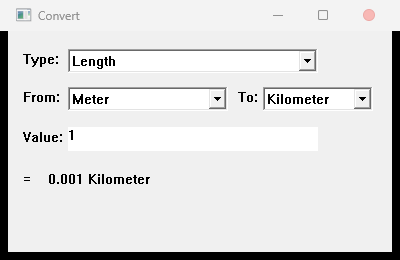
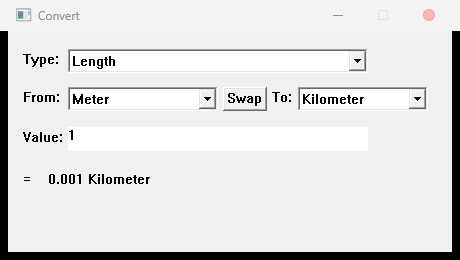
v0.2.1: fix critical bugs found in code review
CRITICAL: bound the expression parser recursion depth (core/math.rs) -- deeply nested input (thousands of parens/unary signs/nested calls) previously overflowed the stack and aborted the whole process; it now returns Err. MAJOR: add the missing swap button to the win32 front-end so it matches the others. Also: fmt_num no longer shows '0' for tiny non-zero values, win32 window is fixed-size (controls can no longer be clipped), no unwrap across the FFI boundary, saturating_sub everywhere, fltk label clipping fixed, Unicode whitespace ignored. 21 tests.

diff --git a/win32/src/main.rs b/win32/src/main.rs
@@ -52,6 +52,7 @@ const CBS_DROPDOWNLIST: u32 = 0x0003;
 const CBS_HASSTRINGS: u32 = 0x0200;
 
 const CBN_SELCHANGE: u32 = 1;
+const BN_CLICKED: u32 = 0;
 const EN_CHANGE: u32 = 0x0300;
 
 const CB_ADDSTRING: u32 = 0x0143;
@@ -65,6 +66,7 @@ const ID_FROM: usize = 102;
 const ID_TO: usize = 103;
 const ID_VALUE: usize = 104;
 const ID_RESULT: usize = 105;
+const ID_SWAP: usize = 106;
 
 #[derive(Default, Clone, Copy)]
 struct Controls {
@@ -104,10 +106,13 @@ fn main() {
             WINDOW_EX_STYLE(0),
             PCWSTR(class_name.as_ptr()),
             PCWSTR(title.as_ptr()),
-            WINDOW_STYLE(0x00CF_0000), // WS_OVERLAPPEDWINDOW
+            // Fixed-size window: WS_OVERLAPPEDWINDOW minus the thick frame and
+            // maximize box, so the absolutely-positioned controls can't be
+            // clipped by resizing.
+            WINDOW_STYLE(0x00CA_0000),
             100,
             100,
-            400,
+            460,
             260,
             None,
             None,
@@ -157,7 +162,11 @@ unsafe extern "system" fn wndproc(hwnd: HWND, msg: u32, wparam: WPARAM, lparam: 
 }
 
 unsafe fn create_controls(parent: HWND) {
-    let instance = HINSTANCE(GetModuleHandleW(None).unwrap().0);
+    let instance = HINSTANCE(
+        GetModuleHandleW(None)
+            .map(|m| m.0)
+            .unwrap_or(std::ptr::null_mut()),
+    );
 
     let make = |class: &str, text: &str, style: u32, x: i32, y: i32, w: i32, h: i32, id: usize| -> isize {
         let class = wide(class);
@@ -175,9 +184,12 @@ unsafe fn create_controls(parent: HWND) {
             Some(HMENU(id as *mut c_void)),
             Some(instance),
             None,
-        )
-        .unwrap();
-        child.0 as isize
+        );
+        // Never panic across the FFI boundary: fall back to a null handle.
+        match child {
+            Ok(h) => h.0 as isize,
+            Err(_) => 0,
+        }
     };
 
     let _ = make("STATIC", "Type:", 0, 15, 20, 40, 22, 0);
@@ -187,7 +199,7 @@ unsafe fn create_controls(parent: HWND) {
         CBS_DROPDOWNLIST | CBS_HASSTRINGS | WS_TABSTOP,
         60,
         18,
-        250,
+        300,
         200,
         ID_CATEGORY,
     );
@@ -203,19 +215,22 @@ unsafe fn create_controls(parent: HWND) {
         CBS_DROPDOWNLIST | CBS_HASSTRINGS | WS_TABSTOP,
         60,
         56,
-        160,
+        150,
         200,
         ID_FROM,
     );
 
-    let _ = make("STATIC", "To:", 0, 230, 58, 25, 22, 0);
+    // Swap button — the other front-ends have one too.
+    let _ = make("BUTTON", "Swap", WS_TABSTOP, 215, 56, 44, 24, ID_SWAP);
+
+    let _ = make("STATIC", "To:", 0, 264, 58, 22, 22, 0);
     let to_box = make(
         "COMBOBOX",
         "",
         CBS_DROPDOWNLIST | CBS_HASSTRINGS | WS_TABSTOP,
-        255,
+        290,
         56,
-        110,
+        130,
         200,
         ID_TO,
     );
@@ -227,13 +242,13 @@ unsafe fn create_controls(parent: HWND) {
         ES_AUTOHSCROLL | WS_TABSTOP,
         60,
         96,
-        250,
+        300,
         24,
         ID_VALUE,
     );
 
     let _ = make("STATIC", "=", 0, 15, 140, 20, 22, 0);
-    let result_box = make("STATIC", "", 0, 40, 140, 320, 24, ID_RESULT);
+    let result_box = make("STATIC", "", 0, 40, 140, 380, 24, ID_RESULT);
 
     CTRL.with(|c| {
         *c.borrow_mut() = Controls {
@@ -258,7 +273,7 @@ unsafe fn fill_units(category: Category, from_box: isize, to_box: isize) {
         add_combo_item(to_box, u);
     }
     set_combo_sel(from_box, 0);
-    set_combo_sel(to_box, 1.min(category.units().len() as i32 - 1));
+    set_combo_sel(to_box, 1.min(category.units().len().saturating_sub(1) as i32));
 }
 
 unsafe fn add_combo_item(combo: isize, text: &str) {
@@ -306,13 +321,14 @@ unsafe fn recompute() {
         return;
     }
     let cat_idx = combo_sel(c.category).max(0) as usize;
-    let category = ALL_CATEGORIES[cat_idx.min(ALL_CATEGORIES.len() - 1)];
+    let category = ALL_CATEGORIES[cat_idx.min(ALL_CATEGORIES.len().saturating_sub(1))];
     let units = category.units();
 
     let from_idx = combo_sel(c.from).max(0) as usize;
     let to_idx = combo_sel(c.to).max(0) as usize;
-    let from = units[from_idx.min(units.len() - 1)];
-    let to = units[to_idx.min(units.len() - 1)];
+    let last = units.len().saturating_sub(1);
+    let from = units[from_idx.min(last)];
+    let to = units[to_idx.min(last)];
 
     let text = get_text(c.value);
     let out = match math::eval(&text) {
@@ -333,13 +349,20 @@ unsafe fn on_command(id: usize, code: u32) {
     match id {
         ID_CATEGORY if code == CBN_SELCHANGE => {
             let idx = (combo_sel(c.category).max(0) as usize)
-                .min(ALL_CATEGORIES.len() - 1);
+                .min(ALL_CATEGORIES.len().saturating_sub(1));
             let category = ALL_CATEGORIES[idx];
             fill_units(category, c.from, c.to);
             recompute();
         }
         ID_FROM | ID_TO if code == CBN_SELCHANGE => recompute(),
         ID_VALUE if code == EN_CHANGE => recompute(),
+        ID_SWAP if code == BN_CLICKED => {
+            let f = combo_sel(c.from);
+            let t = combo_sel(c.to);
+            set_combo_sel(c.from, t);
+            set_combo_sel(c.to, f);
+            recompute();
+        }
         _ => {}
     }
 }

diff --git a/core/src/math.rs b/core/src/math.rs
@@ -31,7 +31,11 @@
 /// where the input failed to parse.
 pub fn eval(input: &str) -> Result<f64, String> {
     let tokens = tokenize(input)?;
-    let mut parser = Parser { tokens, pos: 0 };
+    let mut parser = Parser {
+        tokens,
+        pos: 0,
+        depth: 0,
+    };
     let value = parser.expr()?;
     match parser.peek() {
         Token::Eof => Ok(value),
@@ -88,8 +92,9 @@ fn tokenize(input: &str) -> Result<Vec<Token>, String> {
     while i < chars.len() {
         let c = chars[i];
         match c {
-            // Whitespace is ignored anywhere.
-            ' ' | '\t' | '\n' | '\r' => i += 1,
+            // Whitespace is ignored anywhere (including Unicode spaces, which
+            // are common when pasting from web pages or spreadsheets).
+            _ if c.is_whitespace() => i += 1,
             '+' => {
                 tokens.push(Token::Plus);
                 i += 1;
@@ -175,7 +180,13 @@ fn tokenize(input: &str) -> Result<Vec<Token>, String> {
 struct Parser {
     tokens: Vec<Token>,
     pos: usize,
+    depth: usize,
 }
+
+/// Maximum nesting depth (parentheses, unary chains, or nested calls) before we
+/// bail out. Guards against a stack overflow / process abort from pathological
+/// input such as thousands of `(` characters.
+const MAX_DEPTH: usize = 128;
 
 impl Parser {
     /// Peek at the current token. Returns `Eof` past the end so we never index
@@ -228,8 +239,17 @@ impl Parser {
     }
 
     /// `unary := ('+' | '-') unary | power`
+    ///
+    /// Every recursive path in the grammar funnels through here, so this is
+    /// where the depth limit is enforced: runaway nesting becomes an `Err`
+    /// instead of a stack overflow (which would abort the whole process).
     fn unary(&mut self) -> Result<f64, String> {
-        match self.peek() {
+        self.depth += 1;
+        if self.depth > MAX_DEPTH {
+            self.depth -= 1;
+            return Err("expression nested too deeply".to_string());
+        }
+        let result = match self.peek() {
             Token::Minus => {
                 self.advance();
                 Ok(-self.unary()?)
@@ -239,7 +259,9 @@ impl Parser {
                 self.unary()
             }
             _ => self.power(),
-        }
+        };
+        self.depth -= 1;
+        result
     }
 
     /// `power := primary ('^' unary)?`
@@ -498,5 +520,23 @@ mod tests {
         is_err("nope");
         is_err("1@@2");
         is_err("1..2");
+    }
+
+    #[test]
+    fn deep_nesting_is_rejected_not_crashed() {
+        // Without a depth guard these overflow the stack and abort the process.
+        let parens = "(".repeat(10_000) + &")".repeat(10_000);
+        assert!(eval(&parens).is_err());
+        let signs = format!("{}1", "-".repeat(10_000));
+        assert!(eval(&signs).is_err());
+        let nested = "sqrt(".repeat(10_000);
+        assert!(eval(&nested).is_err());
+        // Reasonable nesting still works.
+        assert_eq!(eval("((((1+2))))").unwrap(), 3.0);
+    }
+
+    #[test]
+    fn unicode_whitespace_is_ignored() {
+        assert_eq!(eval("1\u{00A0}+\u{2003}2").unwrap(), 3.0);
     }
 }

diff --git a/fltk/src/main.rs b/fltk/src/main.rs
@@ -20,8 +20,9 @@ struct State {
 fn refresh(state: &Rc<RefCell<State>>, input: &Input, result: &mut Output) {
     let s = state.borrow();
     let units = s.category.units();
-    let f = units[s.from.min(units.len() - 1)];
-    let t = units[s.to.min(units.len() - 1)];
+    let last = units.len().saturating_sub(1);
+    let f = units[s.from.min(last)];
+    let t = units[s.to.min(last)];
     let text = input.value();
 
     let out = match math::eval(&text) {
@@ -47,9 +48,9 @@ fn main() {
     }
     cat.set_value(0);
 
-    let mut from = Choice::new(20, 62, 150, 28, "From:");
-    let mut swap = Button::new(180, 62, 30, 28, "⇄");
-    let mut to = Choice::new(220, 62, 140, 28, "To:");
+    let mut from = Choice::new(60, 62, 140, 28, "From:");
+    let mut swap = Button::new(205, 62, 30, 28, "⇄");
+    let mut to = Choice::new(265, 62, 100, 28, "To:");
 
     let mut value = Input::new(90, 105, 160, 28, "Value:");
     value.set_value("1");
@@ -83,13 +84,14 @@ fn main() {
         let input = value.clone();
         let mut result = result.clone();
         cat.set_callback(move |c| {
-            let idx = (c.value().max(0) as usize).min(ALL_CATEGORIES.len() - 1);
+            let idx = (c.value().max(0) as usize).min(ALL_CATEGORIES.len().saturating_sub(1));
             let newcat = ALL_CATEGORIES[idx];
+            let t = 1.min(newcat.units().len().saturating_sub(1));
             {
                 let mut s = state.borrow_mut();
                 s.category = newcat;
                 s.from = 0;
-                s.to = 1.min(newcat.units().len() - 1);
+                s.to = t;
             }
             from.clear();
             for u in newcat.units() {
@@ -100,7 +102,7 @@ fn main() {
             for u in newcat.units() {
                 to.add_choice(u);
             }
-            to.set_value(1);
+            to.set_value(t as i32);
             refresh(&state, &input, &mut result);
         });
     }
@@ -112,7 +114,8 @@ fn main() {
         let mut result = result.clone();
         let mut handle = from.clone();
         handle.set_callback(move |c| {
-            state.borrow_mut().from = c.value().max(0) as usize;
+            let len = state.borrow().category.units().len();
+            state.borrow_mut().from = (c.value().max(0) as usize).min(len.saturating_sub(1));
             refresh(&state, &input, &mut result);
         });
     }
@@ -124,7 +127,8 @@ fn main() {
         let mut result = result.clone();
         let mut handle = to.clone();
         handle.set_callback(move |c| {
-            state.borrow_mut().to = c.value().max(0) as usize;
+            let len = state.borrow().category.units().len();
+            state.borrow_mut().to = (c.value().max(0) as usize).min(len.saturating_sub(1));
             refresh(&state, &input, &mut result);
         });
     }

diff --git a/core/src/lib.rs b/core/src/lib.rs
@@ -106,6 +106,14 @@ pub fn fmt_num(n: f64) -> String {
     if !n.is_finite() {
         return "-".to_string();
     }
+    if n == 0.0 {
+        return "0".to_string();
+    }
+    // Very small (but non-zero) values would round to "0" with six fixed
+    // decimals, which is misleading. Show them in scientific notation instead.
+    if n.abs() < 1e-6 {
+        return format!("{n:e}");
+    }
     let s = format!("{n:.6}");
     let trimmed = s.trim_end_matches('0').trim_end_matches('.');
     if trimmed.is_empty() || trimmed == "-" || trimmed == "-0" {
@@ -174,5 +182,9 @@ mod tests {
         assert_eq!(fmt_num(0.0), "0");
         assert_eq!(fmt_num(-0.0), "0");
         assert_eq!(fmt_num(1234.5678), "1234.5678");
+        // Small non-zero values must not collapse to "0".
+        assert_eq!(fmt_num(1e-9), "1e-9");
+        assert_eq!(fmt_num(-0.0000004), "-4e-7");
+        assert_ne!(fmt_num(1e-9), "0");
     }
 }

diff --git a/egui/src/main.rs b/egui/src/main.rs
@@ -40,8 +40,9 @@ impl eframe::App for Converter {
     fn ui(&mut self, ui: &mut egui::Ui, _frame: &mut eframe::Frame) {
         let units = self.category.units();
         // Keep indices in range if the unit list changed length.
-        self.from_index = self.from_index.min(units.len() - 1);
-        self.to_index = self.to_index.min(units.len() - 1);
+        let last = units.len().saturating_sub(1);
+        self.from_index = self.from_index.min(last);
+        self.to_index = self.to_index.min(last);
 
         ui.add_space(4.0);
         ui.heading("Convert");
@@ -66,7 +67,7 @@ impl eframe::App for Converter {
                 });
             if switched {
                 self.from_index = 0;
-                self.to_index = 1.min(self.category.units().len() - 1);
+                self.to_index = 1.min(self.category.units().len().saturating_sub(1));
             }
         });
 

diff --git a/README.md b/README.md
@@ -11,7 +11,7 @@ math, wildly different footprints.
 | Version | GUI toolkit | Release size | Platform | Notes |
 |---|---|---|---|---|
 | [`egui/`](egui) | `eframe` / `egui` | **4.46 MB** | Windows · macOS · Linux | Immediate-mode, modern look |
-| [`fltk/`](fltk) | `fltk-rs` | **2.01 MB** | Windows · macOS · Linux | Native widgets, old-school look |
+| [`fltk/`](fltk) | `fltk-rs` | **2.02 MB** | Windows · macOS · Linux | Native widgets, old-school look |
 | [`win32/`](win32) | raw Win32 API | **0.16 MB** | Windows only | No GUI framework at all |
 
 > All three share the exact same conversion logic and expression evaluator, which live in a
@@ -29,7 +29,7 @@ math, wildly different footprints.
 
 The same app, three toolkits — identical features, wildly different footprints:
 
-| egui · 4.46 MB | fltk · 2.01 MB | Win32 · 0.16 MB |
+| egui · 4.46 MB | fltk · 2.02 MB | Win32 · 0.16 MB |
 |---|---|---|
 | ![egui](screenshots/egui.png) | ![fltk](screenshots/fltk.png) | ![win32](screenshots/win32.png) |
 
